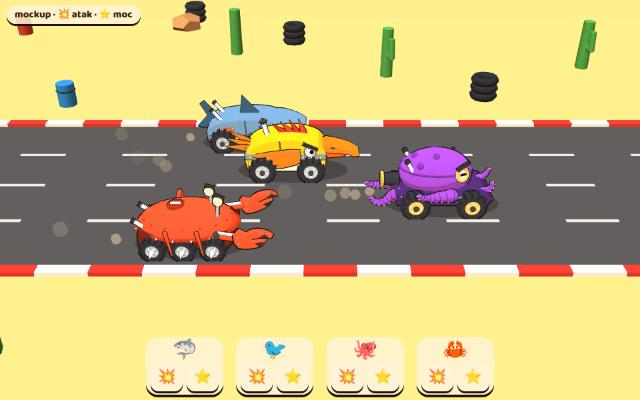
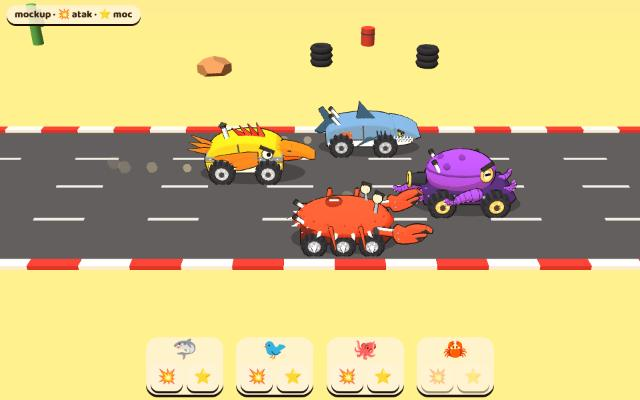
bryki: kąt kamery z adresu (?kat=15) do porównania skosu drogi
Claude-Session: https://claude.ai/code/session_01Y3fw4wmX5JQ3MCK9awvaWe

diff --git a/bryki/game.js b/bryki/game.js
@@ -5,6 +5,7 @@ const T = THREE, $ = id => document.getElementById(id);
 const LANES = [-4.5, -1.5, 1.5, 4.5], V = 20, XMAX = 9.5;
 const KINDS = [['rekin', '🦈'], ['ptak', '🐦'], ['osmiornica', '🐙'], ['krab', '🦀']];
 const ACT = { atak: .9, moc: 2.6, oberwal: .45 };          // czas trwania [s]
+const KAT = +(new URLSearchParams(location.search).get('kat') ?? 0);   // obrót kamery [°], do porównań: ?kat=20
 const rnd = (a, b) => a + Math.random() * (b - a);
 
 /* --- renderer, światło, kamera z boku --- */
@@ -18,7 +19,8 @@ const cam = new T.PerspectiveCamera(32, 1, .5, 300);
 function resize() {
   const w = innerWidth, h = innerHeight; renderer.setSize(w, h, false); cam.aspect = w / h;
   const d = Math.max(1, 2.1 / cam.aspect);                   // wąski ekran: kamera dalej, żeby zmieścić drogę
-  cam.position.set(0, 12 * d, 21 * d); cam.lookAt(0, .2, 1.6); cam.updateProjectionMatrix();
+  const yaw = KAT * Math.PI / 180;                          // skos drogi: + widać przody aut, − tyły
+  cam.position.set(21 * d * Math.sin(yaw), 12 * d, 1.6 + 21 * d * Math.cos(yaw)); cam.lookAt(0, .2, 1.6); cam.updateProjectionMatrix();
 }
 addEventListener('resize', resize); resize();
 
